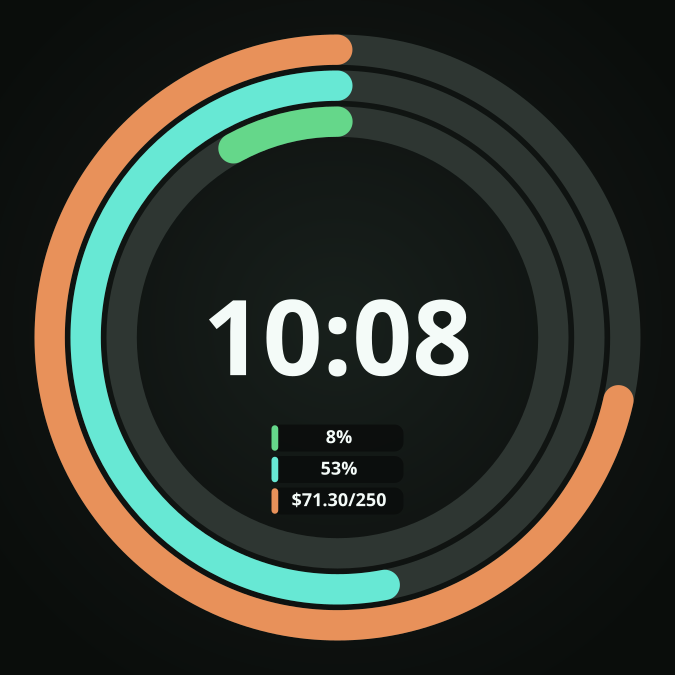
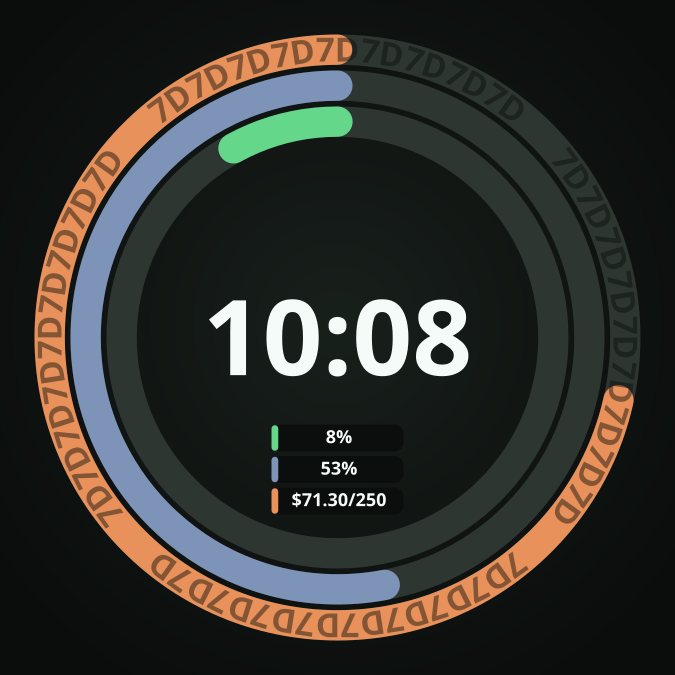
chore(design): repaint the Cursor pools and the unresolved fallback

Changed region(s): [[0.0311, 0.0311, 0.7778, 0.9644], [0.8089, 0.56, 0.9333, 0.7778], [0.4044, 0.6844, 0.4356, 0.7156]]

diff --git a/apps/wear_android/app/src/main/java/app/wardpulse/wear/ui/RingFamily.kt b/apps/wear_android/app/src/main/java/app/wardpulse/wear/ui/RingFamily.kt
@@ -7,9 +7,15 @@ package app.wardpulse.wear.ui
 object RingFamily {
     const val CODEX = 0xFF65D78A.toInt()
     const val CLAUDE = 0xFFE8915A.toInt()
+
+    /** Cursor, and its external models pool by extension. */
     const val CURSOR = 0xFF67E8D4.toInt()
-    const val BUDGET = 0xFF8AB4F8.toInt()
-    const val FALLBACK = BUDGET
+
+    /** The Cursor plan's own models — the one pool that leaves the family colour. */
+    const val CURSOR_OWN = 0xFF7E93B8.toInt()
+
+    /** Deliberately colourless: an id that names no family should not ship. */
+    const val FALLBACK = 0xFF8A968F.toInt()
 
     /** ARGB for WFF [COMPLICATION.RANGED_VALUE_COLORS] / Compose strokes. */
     fun colorArgb(ringId: String): Int =
@@ -22,8 +28,10 @@ object RingFamily {
             ringId.startsWith("allowance.claude") ||
                 ringId.contains(".claude.") ||
                 ringId.contains(".anthropic.") -> CLAUDE
+            // Before the family branch, or it would never be reached: the pool
+            // name sits inside an `allowance.cursor.` id.
+            ringId.contains("cursor-plan-models") -> CURSOR_OWN
             ringId.startsWith("allowance.cursor") || ringId.contains(".cursor.") -> CURSOR
-            ringId.startsWith("budget.") -> BUDGET
             else -> FALLBACK
         }
 }

diff --git a/apps/wear_android/app/src/test/java/app/wardpulse/wear/ui/RingFamilyTest.kt b/apps/wear_android/app/src/test/java/app/wardpulse/wear/ui/RingFamilyTest.kt
@@ -9,7 +9,8 @@ class RingFamilyTest {
         assertEquals(RingFamily.CODEX, RingFamily.colorArgb("allowance.codex.primary"))
         assertEquals(RingFamily.CLAUDE, RingFamily.colorArgb("allowance.claude.5h"))
         assertEquals(RingFamily.CURSOR, RingFamily.colorArgb("allowance.cursor.plan"))
-        assertEquals(RingFamily.BUDGET, RingFamily.colorArgb("budget.week"))
+        // A budget id that names no connection has no family to borrow from.
+        assertEquals(RingFamily.FALLBACK, RingFamily.colorArgb("budget.week"))
         assertEquals(RingFamily.FALLBACK, RingFamily.colorArgb("unknown.metric"))
     }
 
@@ -18,5 +19,17 @@ class RingFamilyTest {
         assertEquals(RingFamily.CODEX, RingFamily.colorArgb("budget.openai.platform.today"))
         assertEquals(RingFamily.CLAUDE, RingFamily.colorArgb("budget.anthropic.platform.month"))
         assertEquals(RingFamily.CURSOR, RingFamily.colorArgb("budget.cursor.platform.month"))
+    }
+
+    @Test
+    fun cursorPoolsPartWays() {
+        assertEquals(
+            RingFamily.CURSOR_OWN,
+            RingFamily.colorArgb("allowance.cursor.cursor-plan-models"),
+        )
+        assertEquals(
+            RingFamily.CURSOR,
+            RingFamily.colorArgb("allowance.cursor.cursor-plan-other"),
+        )
     }
 }

diff --git a/apps/wear_android/app/src/main/java/app/wardpulse/wear/complication/WatchSummaryComplications.kt b/apps/wear_android/app/src/main/java/app/wardpulse/wear/complication/WatchSummaryComplications.kt
@@ -228,7 +228,8 @@ class Ring3ComplicationDataSourceService : RingComplicationDataSourceService() {
 class Ring4ComplicationDataSourceService : RingComplicationDataSourceService() {
     override val ringIndex = 3
     override val previewPercent = 75f
-    override val previewColorArgb = RingFamily.BUDGET
+    // A budget ring wears its connection's family, so the editor preview does too.
+    override val previewColorArgb = RingFamily.CLAUDE
     override val previewLabel = "Ring 4"
 }
 
@@ -312,9 +313,10 @@ class Strip3ComplicationDataSourceService : RingStripComplicationDataSourceServi
 
 class Strip4ComplicationDataSourceService : RingStripComplicationDataSourceService() {
     override val ringIndex = 3
-    // The budget-colored slot: the editor should show what a budget strip reads.
+    // The budget slot: the editor should show what a budget strip reads, in the
+    // family colour such a ring carries.
     override val previewText = "\$12.34/100"
-    override val previewColorArgb = RingFamily.BUDGET
+    override val previewColorArgb = RingFamily.CLAUDE
 }
 
 object WatchComplicationText {

diff --git a/apps/phone_flutter/lib/dashboard/provider_status_color.dart b/apps/phone_flutter/lib/dashboard/provider_status_color.dart
@@ -7,7 +7,16 @@ const _familyCodex = Color(0xFF65D78A);
 const _familyClaude = Color(0xFFE8915A);
 const _familyCursor = Color(0xFF67E8D4);
 const _familyOpenAi = Color(0xFF65D78A);
-const familyBudgetColor = Color(0xFF8AB4F8);
+
+/// The Cursor plan's own models — the one pool that leaves the family colour
+/// (`WATCH_RING_DESIGN.md`, Split band).
+const familyCursorOwnColor = Color(0xFF7E93B8);
+
+/// Demo data keeps the blue it has always had; it is not an unresolved family.
+const _familyMock = Color(0xFF8AB4F8);
+
+/// Deliberately colourless: an id that names no family should not ship.
+const familyFallbackColor = Color(0xFF8A968F);
 
 Color providerStatusColor(ColorScheme colors, ProviderStatus status) {
   return switch (status) {
@@ -61,7 +70,7 @@ Color providerFamilyColor(String provider) {
     'codex' => _familyCodex,
     'claude' => _familyClaude,
     'cursor' => _familyCursor,
-    'mock' => familyBudgetColor,
-    _ => familyBudgetColor,
+    'mock' => _familyMock,
+    _ => familyFallbackColor,
   };
 }

diff --git a/apps/phone_flutter/android/app/src/main/kotlin/app/wardpulse/WardPulseAppWidget.kt b/apps/phone_flutter/android/app/src/main/kotlin/app/wardpulse/WardPulseAppWidget.kt
@@ -204,8 +204,10 @@ class WardPulseAppWidget : AppWidgetProvider() {
                 val percent = data.getString("row_${i}_percent", "") ?: ""
                 val credits = data.getString("row_${i}_credits", "") ?: ""
                 val label = data.getString("row_${i}_label", "") ?: ""
-                val colorHex = data.getString("row_${i}_color", "ff8ab4f8") ?: "ff8ab4f8"
-                val color = colorHex.toLongOrNull(16)?.toInt() ?: 0xFF8AB4F8.toInt()
+                // Colourless on purpose: a row whose accent did not arrive names no
+                // family, and blue is a product colour again since 2026-08-13.
+                val colorHex = data.getString("row_${i}_color", "ff8a968f") ?: "ff8a968f"
+                val color = colorHex.toLongOrNull(16)?.toInt() ?: 0xFF8A968F.toInt()
                 views.setViewVisibility(rowIds[i], View.VISIBLE)
                 views.setTextViewText(percentIds[i], percent)
                 views.setTextViewText(creditsIds[i], credits)

diff --git a/apps/phone_flutter/test/phone_widget_payload_test.dart b/apps/phone_flutter/test/phone_widget_payload_test.dart
@@ -53,10 +53,20 @@ void main() {
       phoneWidgetAccentArgb('budget.openai.platform.today'),
       providerFamilyColor('codex').toARGB32(),
     );
-    // No family named in the id: fall back to the neutral budget accent.
+    // No family named in the id: fall back to the colourless accent.
     expect(
       phoneWidgetAccentArgb('budget.mock.plan.today'),
-      familyBudgetColor.toARGB32(),
+      familyFallbackColor.toARGB32(),
+    );
+    // The Cursor plan's own models leave the family colour; everything else
+    // Cursor keeps it.
+    expect(
+      phoneWidgetAccentArgb('allowance.cursor.cursor-plan-models'),
+      familyCursorOwnColor.toARGB32(),
+    );
+    expect(
+      phoneWidgetAccentArgb('allowance.cursor.cursor-plan-other'),
+      providerFamilyColor('cursor').toARGB32(),
     );
   });
 

diff --git a/apps/phone_flutter/lib/widget/phone_widget_payload.dart b/apps/phone_flutter/lib/widget/phone_widget_payload.dart
@@ -122,11 +122,16 @@ int phoneWidgetAccentArgb(String metricId) {
   if (metricId.contains('claude') || metricId.contains('anthropic')) {
     return providerFamilyColor('claude').toARGB32();
   }
+  // Before the family branch, or it would never be reached: the pool name sits
+  // inside a `cursor` id (`WATCH_RING_DESIGN.md`, Split band).
+  if (metricId.contains('cursor-plan-models')) {
+    return familyCursorOwnColor.toARGB32();
+  }
   if (metricId.contains('cursor')) {
     return providerFamilyColor('cursor').toARGB32();
   }
   if (metricId.contains('codex') || metricId.contains('openai')) {
     return providerFamilyColor('codex').toARGB32();
   }
-  return familyBudgetColor.toARGB32();
+  return familyFallbackColor.toARGB32();
 }

diff --git a/docs/product/WATCH_RING_DESIGN.md b/docs/product/WATCH_RING_DESIGN.md
@@ -87,6 +87,7 @@ may modulate toward theme tertiary/error when needed.
 | Cursor · other models | `#67E8D4` | Cyan — external models on the Cursor plan |
 | Cursor · own models | `#7E93B8` | Grey-blue — the plan's own pool |
 | Unresolved family | `#8A968F` | Neutral grey — fallback only, never a product color |
+| Demo data | `#8AB4F8` | The old blue, kept so mock rings do not masquerade as unresolved |
 
 A local budget ring takes the family color of the connection it belongs to, exactly like that
 connection's allowance rings; period is carried by the type in the band (see Ring type texture),
